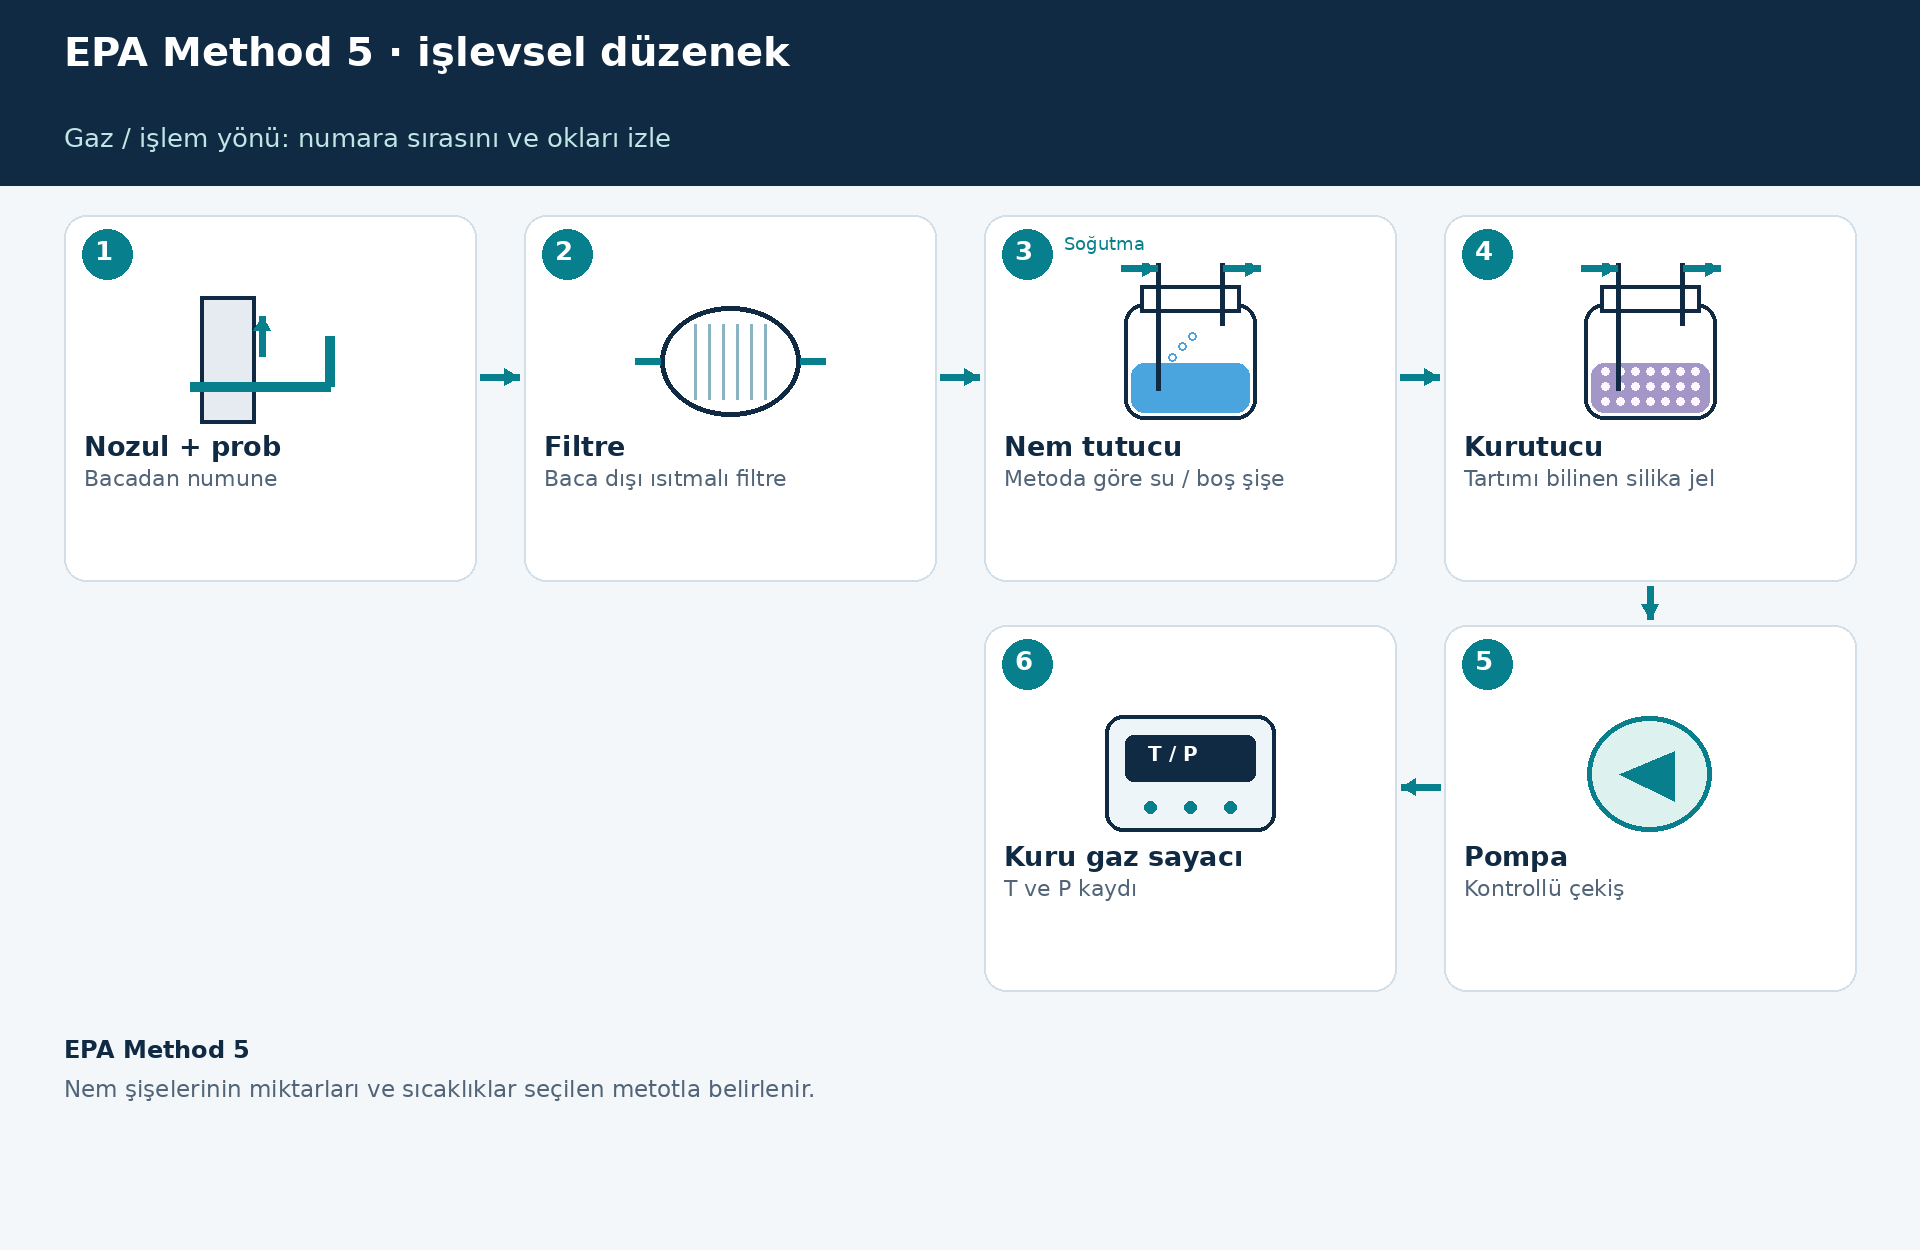
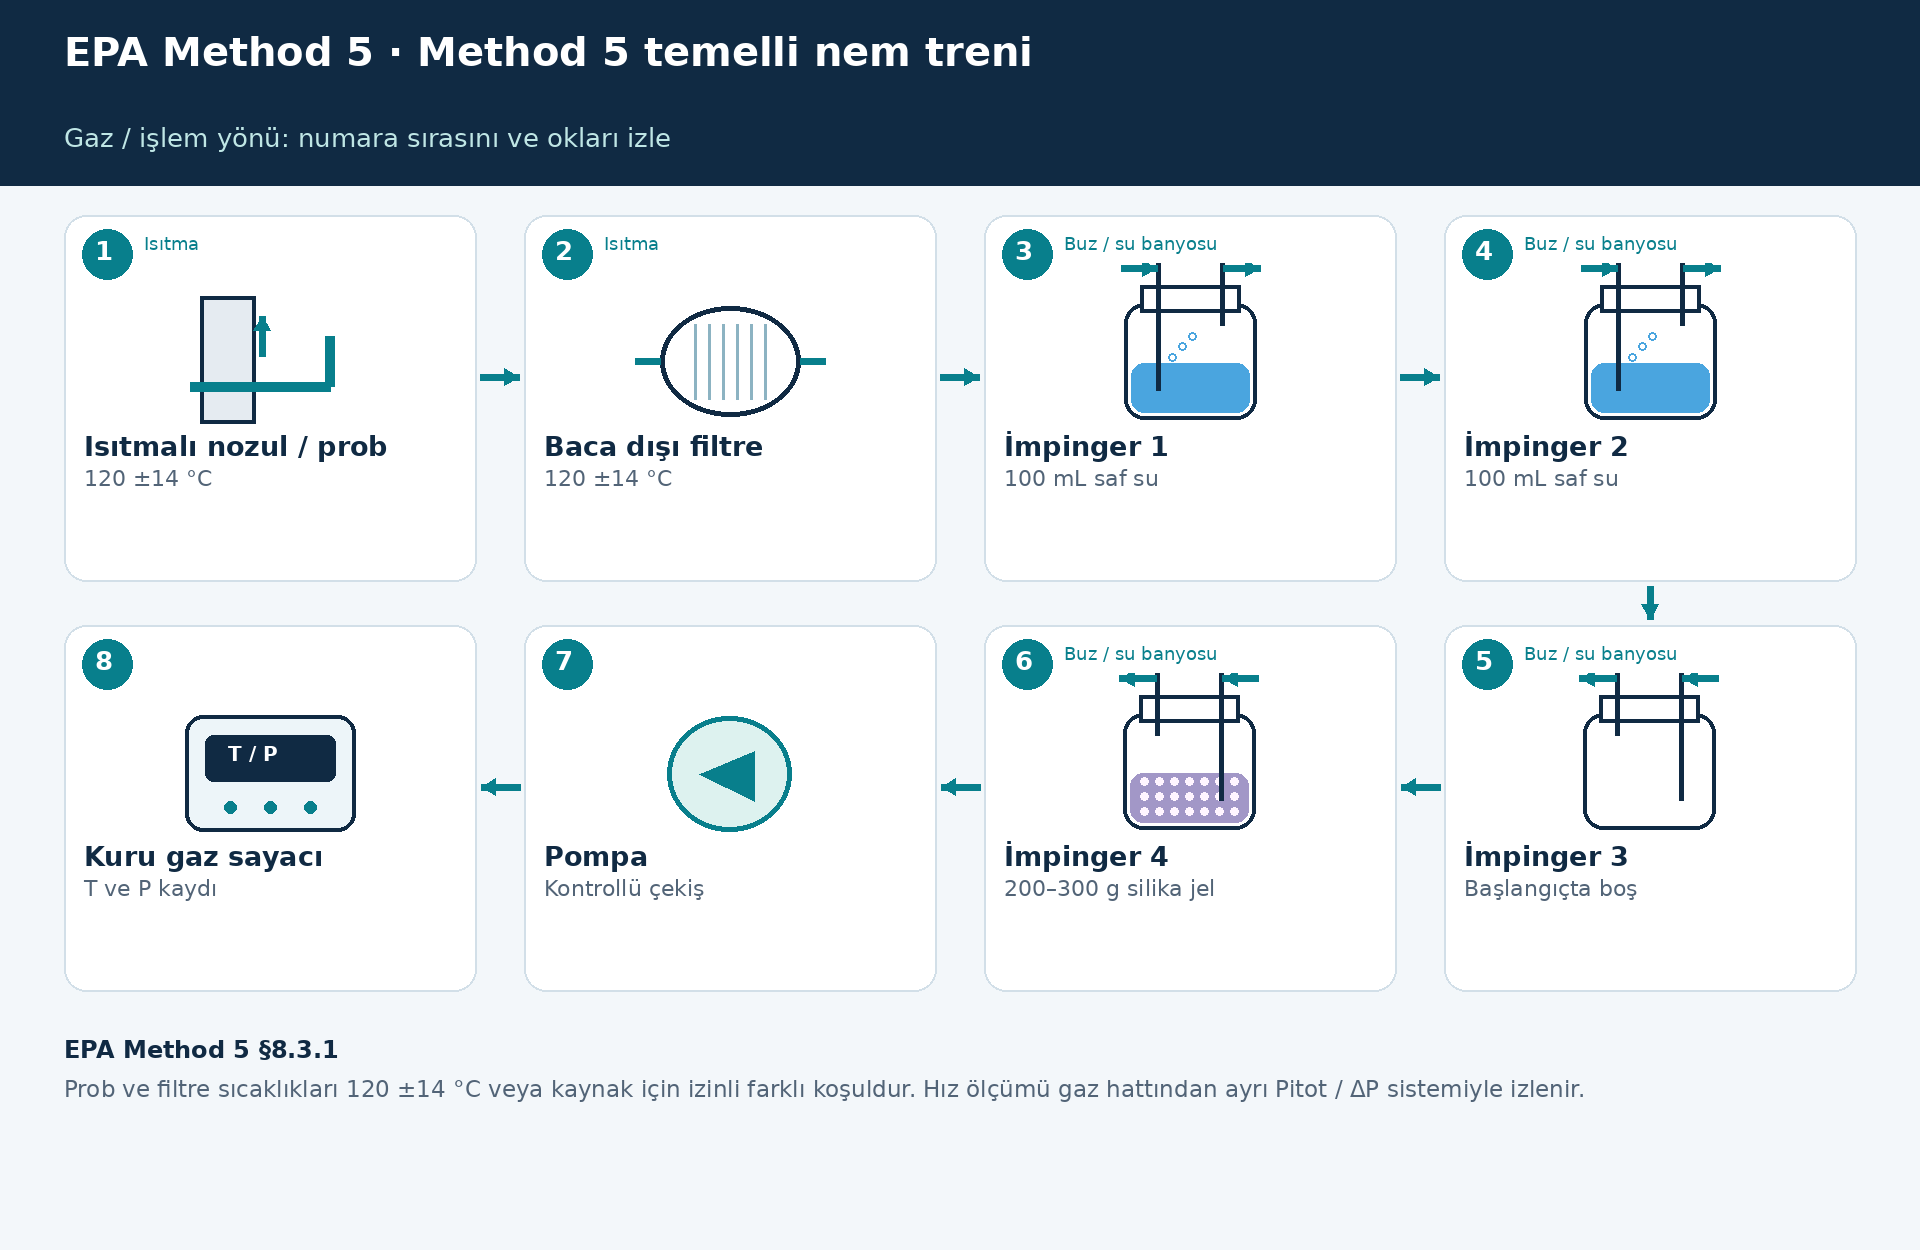
Show explicit Method 5 and 17 moisture impingers and complete isokinetic equipment lists

diff --git a/scripts/build_field_guides.py b/scripts/build_field_guides.py
@@ -50,7 +50,7 @@ SOURCES = {
  '11338': ('ISO 11338-1:2003 · ISO kapsam / metotlar', 'https://www.iso.org/standard/32903.html'),
  '4': ('EPA Method 4 · §8.1 referans yöntemi', 'https://www.epa.gov/sites/default/files/2017-08/documents/method_4_0.pdf'),
  '5': ('EPA Method 5 · 2020 · §8.3', 'https://www.epa.gov/sites/default/files/2019-08/documents/method_5_0.pdf'),
- '17': ('EPA Method 17 · baca içi filtre', EPA+'method-17-particulate-matter'),
+ '17': ('EPA Method 17 · §6.1.5 ve §1.2', 'https://www.epa.gov/sites/default/files/2017-08/documents/method_17.pdf'),
  '1': ('EPA Method 1 · ölçüm yeri ve traverse', EPA+'method-1-sample-and-velocity-traverses-stationary-sources'),
  '2': ('EPA Method 2 · hız ve debi', EPA+'method-2-velocity-s-type-pitot'),
  '25a': ('EPA Method 25A · toplam gaz organikleri', EPA+'method-25a-total-gaseous-organic-concentration-using-flame-ionization-detector'),
@@ -334,9 +334,27 @@ add('ISDL / MID','Hedef hacim ve raporlama limiti','Kalite kontrol',
  steps(('Tayin limiti / sınır değer','Laboratuvar tayin limiti ile yönetmelik sınır değeri aynı kavram değildir.','Kritik kontrol')),
  [train('Numune hacmi planlama',[node('Analit ve limit','Raporlama hedefi'),node('Laboratuvar','Kütle LOD / LOQ'),node('Hedef hacim','Kütle / derişim'),node('Saha planı','Metot debisi ve süre'),node('Son kontrol','Gerçek hacim + blank')],'Laboratuvar validasyonu + seçilen numune metodu','Numune treni değildir; planlama akışıdır.',False)])
 
+# Explicit EPA particulate moisture trains, with the different front-filter locations preserved.
+for g in guides:
+    if g['code'] in {'EPA Method 5','EPA Method 17'}:
+        t=g['trains'][0]
+        front=t['nodes'][:2]
+        if g['code']=='EPA Method 5':
+            front[0]=node('Isıtmalı nozul / prob','120 ±14 °C','İzinli kaynak sıcaklığı istisnası ayrıca kontrol edilir.','probe','Isıtma')
+            front[1]=node('Baca dışı filtre','120 ±14 °C','Partikül fazını tutar.','filter','Isıtma')
+        t['nodes']=front+[imp(1,'100 mL saf su','İlk nem toplama.'),imp(2,'100 mL saf su','İkinci nem toplama.'),imp(3,'Başlangıçta boş','Sıvı sürüklenmesi koruması.','empty'),imp(4,SILICA,'Artık nem tutma.','silica'),PUMP,DGM]
+        t['title']=g['code']+' · Method 5 temelli nem treni'
+        t['source']='EPA Method 5 §8.3.1'+(' / Method 17 §6.1.5' if g['code']=='EPA Method 17' else '')
+        t['note']='Method 17 için bu nem düzeni metotta önerilen Method 5 temelli seçenektir; filtre baca içinde kalır.' if g['code']=='EPA Method 17' else 'Prob ve filtre sıcaklıkları 120 ±14 °C veya kaynak için izinli farklı koşuldur. Hız ölçümü gaz hattından ayrı Pitot / ΔP sistemiyle izlenir.'
+        t['verified']=True
+        if g['code']=='EPA Method 17':
+            g['sources'].append(dict(title=SOURCES['5'][0],url=SOURCES['5'][1]))
+            g['checks'].insert(0,point('Method 17 uygulanabilirliği','Damlacıklı veya su buharına doygun bacada Method 17 yazıldığı haliyle uygulanmaz. Filtrasyon sıcaklığı ve kesit engelleme koşulları kaynak/metot kapsamıyla doğrulanır.','Metot şartı'))
 # Equipment follows the curated diagram, rather than old mixed-method lists.
 for g in guides:
     g['equipment'] = list(dict.fromkeys([n['label'] + (' — ' + n['value'].replace('\n', '; ') if n['value'] else '') for t in g['trains'] for n in t['nodes']])) + ['Metoda uygun sıcaklık / basınç ve zaman kayıt ekipmanı.', 'Numune ve blank kapları; saha formu ve etiketler.']
+    if g['code'] in {'EPA Method 5','EPA Method 17','TS EN 13284-1','TS ISO 9096','ISO 12141','EPA Method 26A','EPA Method 13A','EPA Method 29','TS EN 14385','TS ISO 11338 / ilgili PAH saha uygulamaları','TS EN 1948-1','EPA Method 23','CARB Method 426','CARB Method 425','EPA CTM 027','EPA Method 8'}:
+        g['equipment'] += ['Pitot, diferansiyel basınç ölçer, baca sıcaklık sensörü ve barometre; izokinetik ayar için kalibrasyonlu nozul takımı.']
     g['mistakes'] = ['Farklı metotların trenini veya sayısal şartlarını birbirine taşımak.', 'Ölçüm kesintisini ve proses değişikliğini kaydetmemek.', 'Sayaç hacmi ile kuru referans hacmi aynı kabul etmek.']
     if g['group'] == 'İmisyon':
         g['mistakes'] = ['Başlangıç ve bitiş zamanını eksik kaydetmek.', 'Blank ve numune kimliğini karıştırmak.', 'Geçersiz maruziyet / kesinti kaydını değerlendirmemek.']

diff --git a/scripts/validate_field_guides.py b/scripts/validate_field_guides.py
@@ -22,6 +22,8 @@ for guide in guides:
 by_code={g['code']:g for g in guides}
 def nodes(code):return by_code[code]['trains'][0]['nodes']
 # Scientific regressions: these methods must not share one generic filter/impinger layout.
+for code in ['EPA Method 5','EPA Method 17']:
+    assert len([n for n in nodes(code) if n['label'].startswith('İmpinger')])==4
 m8=nodes('EPA Method 8')
 assert m8[1]['label']=='İmpinger 1' and m8[2]['kind']=='filter' and m8[3]['label']=='İmpinger 2'
 m13=nodes('EPA Method 13A')
